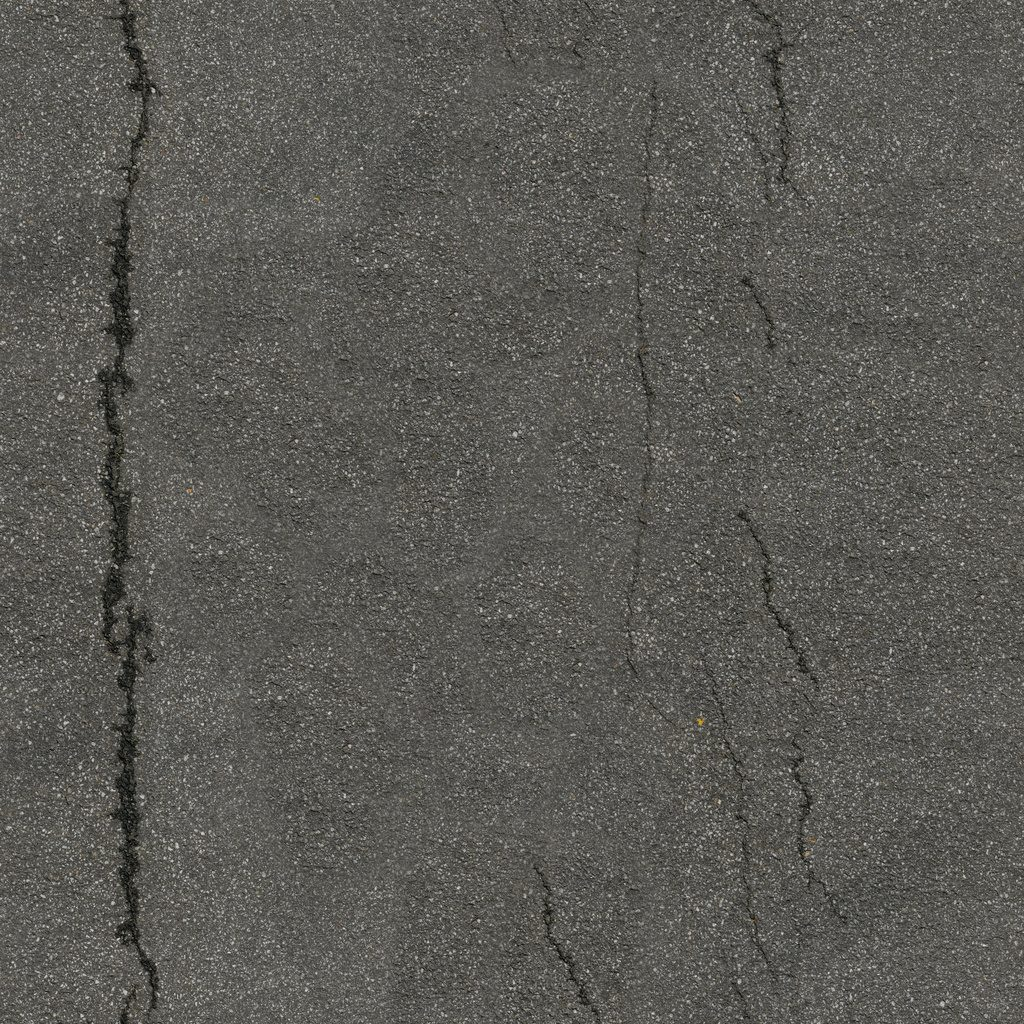
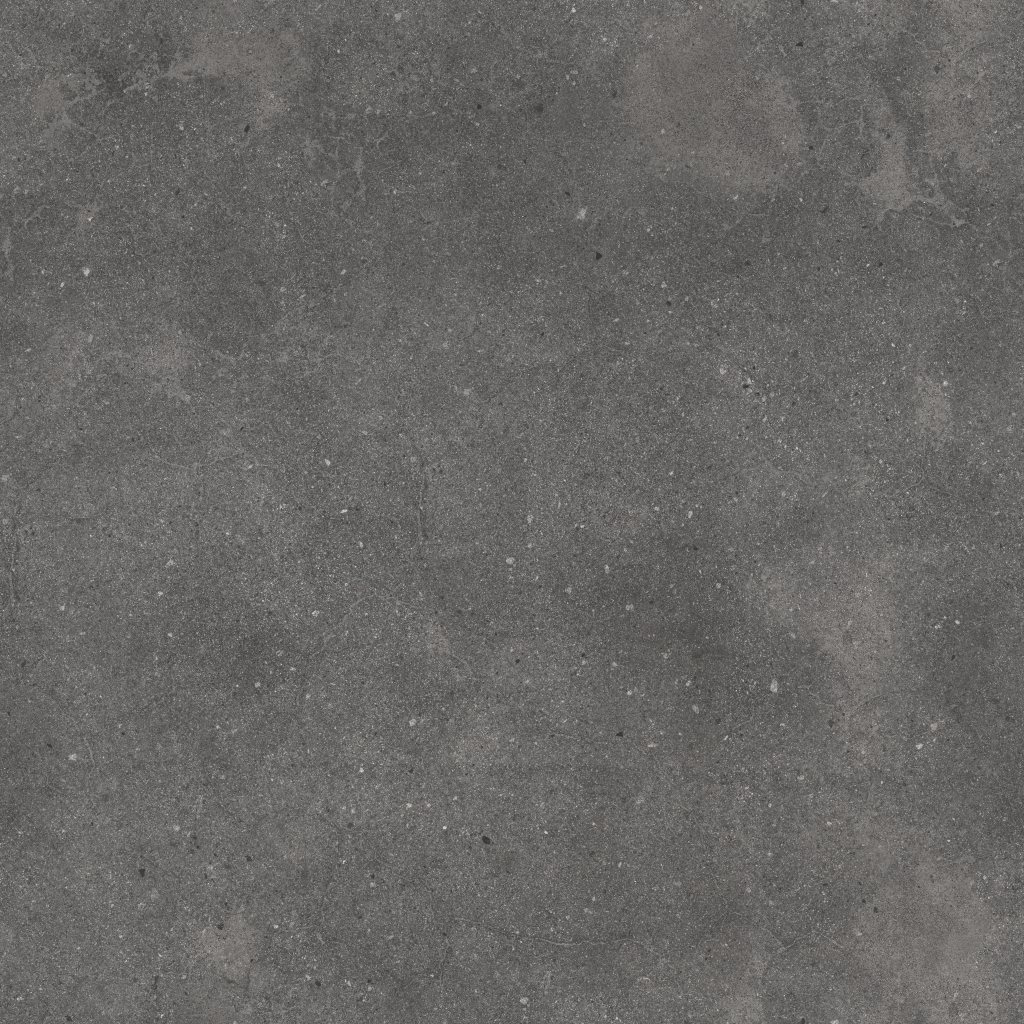
SoundWalk: real road asphalt texture (Poly Haven asphalt_04, CC0)
Claude-Session: https://claude.ai/code/session_01GCoHuwMLXQ9SA4Rdqn8UiT

diff --git a/SoundWalk/README.md b/SoundWalk/README.md
@@ -59,7 +59,7 @@ OHH の丘の岩・海の岩・峡谷の壁は、形を崩した丸い岩に Pol
 
 森の木は、Poly Haven の若いモミとマツの3Dモデル（CC0）を画像に焼き付けたもの（`tex/trees.png`、6本×正面と横）を、3枚の板を60°ずつ組み合わせて立てています。約1500本、木の種類ごとに1回の描画で済みます。葉の付き始めは地面から3m前後（木の高さの約1/4）まで持ち上げ、その下は樹皮の幹だけにしているので、森の中でも幹の間から先が見通せます。
 
-地面・広場のレンガ・アスファルト・舗装・砂は、Poly Haven の写真ベースのテクスチャ（CC0、`tex/` フォルダ。色と法線マップ）です。差し替えは `tex/<名前>_d.jpg` / `_n.jpg` を置き換えるだけで、`src/game.js` の `PHOTO` から名前を外すと元の描画テクスチャに戻ります。
+地面・広場のレンガ・アスファルト・舗装・砂は、Poly Haven の写真ベースのテクスチャ（CC0、`tex/` フォルダ。色と法線マップ）です。道路のアスファルト（`tex/asphalt_*.jpg`）は Poly Haven の asphalt_04 で、細かい骨材の粒と補修跡のある実際の車道の舗装です（コントラストを少し上げ、明るさと彩度を落としてあります）。高速道路・FLIP と FIELD の通り・駐車場・トンネル前の道に使っています。差し替えは `tex/<名前>_d.jpg` / `_n.jpg` を置き換えるだけで、`src/game.js` の `PHOTO` から名前を外すと元の描画テクスチャに戻ります。
 
 ## 乗り物
 
